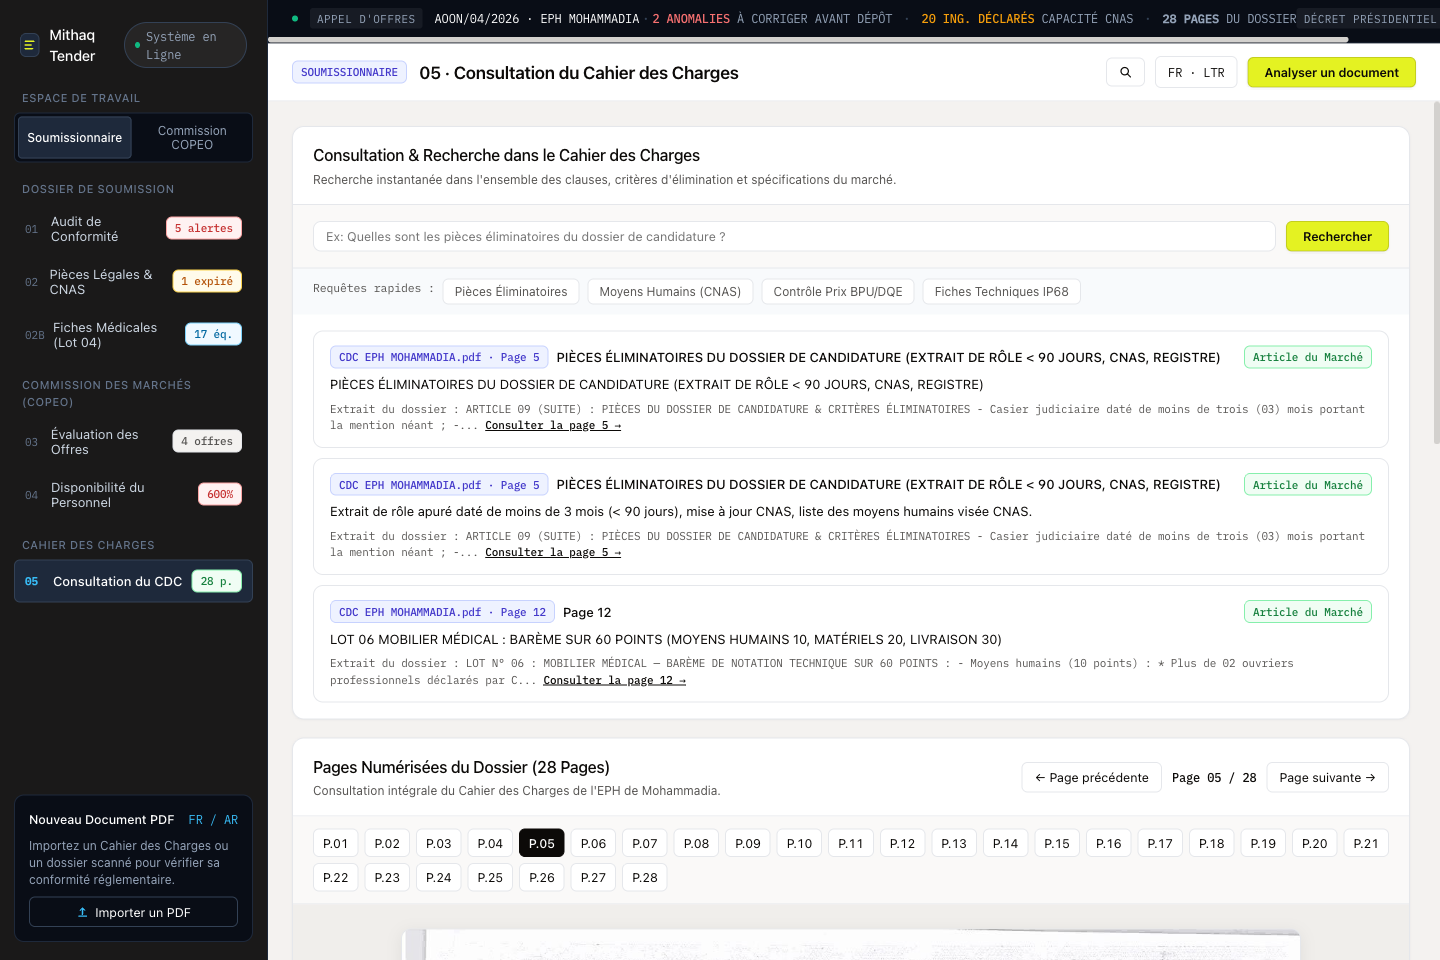
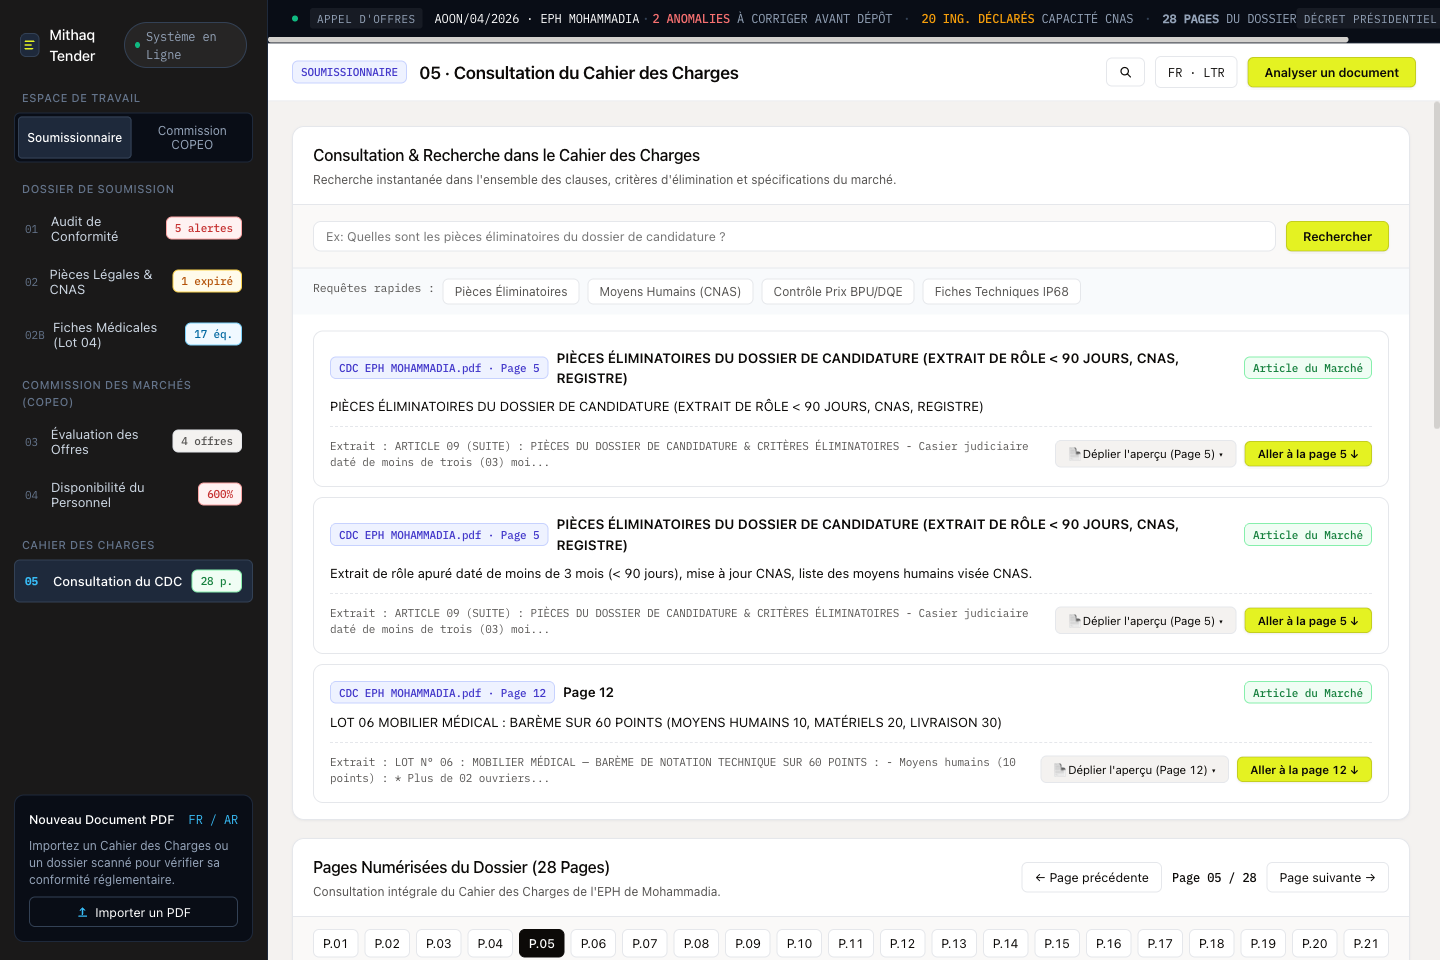
feat(ui): add inline card slide preview and smooth auto-scroll to tender viewer

diff --git a/index.html b/index.html
@@ -782,6 +782,35 @@
       box-shadow: var(--shadow-card);
     }
 
+    .eph-card-slide {
+      max-height: 0;
+      opacity: 0;
+      overflow: hidden;
+      transition: max-height 0.35s cubic-bezier(0.16, 1, 0.3, 1), opacity 0.25s ease;
+    }
+
+    .eph-card-slide.open {
+      max-height: 720px;
+      opacity: 1;
+    }
+
+    .flash-highlight {
+      animation: pulseHighlight 1.6s ease-out;
+    }
+
+    @keyframes pulseHighlight {
+      0% {
+        box-shadow: 0 0 0 3px var(--color-highlighter-yellow), 0 8px 24px rgba(228, 242, 34, 0.4);
+        border-color: var(--color-ink) !important;
+      }
+      50% {
+        box-shadow: 0 0 0 2px var(--color-highlighter-yellow), 0 4px 12px rgba(228, 242, 34, 0.2);
+      }
+      100% {
+        box-shadow: none;
+      }
+    }
+
     .panel-header {
       padding: 16px 20px;
       border-bottom: 1px solid var(--color-hairline);
@@ -1931,7 +1960,7 @@
             <div id="rag-results-container" style="padding: 16px 20px; display: flex; flex-direction: column; gap: 10px;"></div>
           </div>
 
-          <div class="panel-card">
+          <div class="panel-card" id="eph-scan-panel" style="scroll-margin-top: 80px;">
             <div class="panel-header">
               <div class="panel-title">
                 <h2>Pages Numérisées du Dossier (28 Pages)</h2>
@@ -2614,11 +2643,28 @@ Le Président de la Commission COPEO
             <div class="req-desc">${desc}</div>
             <div class="req-footer">
               <span class="mono">${item.docName} · ${item.page}</span>
-              <span class="mono" style="color: var(--color-ink); font-weight: 500;">Voir preuve PDF →</span>
+              <span class="mono" style="color: var(--color-ink); font-weight: 500; cursor: pointer; text-decoration: underline;" onclick="event.stopPropagation(); jumpToInspectorScan('${item.id}')">Voir preuve PDF →</span>
             </div>
           </div>
         `;
       }).join('');
+    }
+
+    function jumpToInspectorScan(reqId) {
+      selectRequirement(reqId);
+      setInspectorMode('SCAN');
+      if (window.innerWidth <= 1024) {
+        setMobileWorkbenchTab('preview');
+      } else {
+        const inspector = document.getElementById('col-pdf-inspector');
+        if (inspector) {
+          inspector.scrollIntoView({ behavior: 'smooth', block: 'nearest' });
+          inspector.classList.remove('flash-highlight');
+          void inspector.offsetWidth;
+          inspector.classList.add('flash-highlight');
+          setTimeout(() => inspector.classList.remove('flash-highlight'), 1800);
+        }
+      }
     }
 
     function setInspectorMode(mode) {
@@ -2934,26 +2980,101 @@ Le Président de la Commission COPEO
         }));
       }
 
-      container.innerHTML = results.map(r => `
-        <div style="background: var(--color-paper); border: 1px solid var(--color-hairline); border-radius: var(--radius-wash); padding: 14px 16px; cursor: pointer; transition: border-color 0.12s ease;" onclick="selectEphPage(${r.page_number})" onmouseover="this.style.borderColor='var(--color-ink)'" onmouseout="this.style.borderColor='var(--color-hairline)'">
-          <div style="display: flex; justify-content: space-between; align-items: center; margin-bottom: 6px;">
+      container.innerHTML = results.map((r, idx) => {
+        const pad = String(r.page_number).padStart(2, '0');
+        return `
+        <div class="rag-rule-card" id="rag-rule-${idx}" style="background: var(--color-paper); border: 1px solid var(--color-hairline); border-radius: var(--radius-wash); padding: 16px; cursor: pointer; transition: all 0.15s ease;" onclick="handleRagCardClick(event, ${idx}, ${r.page_number})" onmouseover="this.style.borderColor='var(--color-ink)'" onmouseout="if(!document.getElementById('eph-slide-${idx}')?.classList.contains('open')) this.style.borderColor='var(--color-hairline)'">
+          <div style="display: flex; justify-content: space-between; align-items: center; margin-bottom: 8px;">
             <div style="display: flex; align-items: center; gap: 8px;">
               <span class="badge badge-envelope mono">${r.doc_name} · Page ${r.page_number}</span>
-              <span style="color: var(--color-ink); font-size: 13px; font-weight: 500;">${r.section_title || 'Clause réglementaire'}</span>
+              <span style="color: var(--color-ink); font-size: 13.5px; font-weight: 600;">${r.section_title || 'Clause réglementaire'}</span>
             </div>
             <span class="badge badge-verified mono">Article du Marché</span>
           </div>
-          <div style="color: var(--color-ink); font-size: 13px; line-height: 1.5; margin-bottom: 6px;">
+          <div style="color: var(--color-ink); font-size: 13px; line-height: 1.55; margin-bottom: 8px;">
             ${r.child_content}
           </div>
-          <div class="mono" style="font-size: 11px; color: var(--color-ash);">
-            Extrait du dossier : ${r.parent_content.slice(0, 160)}... <span style="text-decoration: underline; color: var(--color-ink); font-weight: 500;">Consulter la page ${r.page_number} →</span>
+          <div style="display: flex; justify-content: space-between; align-items: center; margin-top: 10px; flex-wrap: wrap; gap: 10px; border-top: 1px dashed var(--color-hairline); padding-top: 10px;">
+            <div class="mono" style="font-size: 11px; color: var(--color-ash); flex: 1; min-width: 200px;">
+              Extrait : ${r.parent_content.slice(0, 130)}...
+            </div>
+            <div style="display: flex; gap: 8px; align-items: center;">
+              <button class="btn-ghost mono" id="slide-btn-${idx}" style="font-size: 11.5px; padding: 5px 12px; background: var(--color-bone);" onclick="event.stopPropagation(); toggleEphCardSlide(${idx}, ${r.page_number})">
+                <span id="slide-btn-text-${idx}">📄 Déplier l'aperçu (Page ${r.page_number}) ▾</span>
+              </button>
+              <button class="btn-acid-lime mono" style="font-size: 11.5px; padding: 5px 12px;" onclick="event.stopPropagation(); jumpToEphScanPage(${r.page_number})" title="Naviguer directement vers le visualiseur de documents">
+                Aller à la page ${r.page_number} ↓
+              </button>
+            </div>
+          </div>
+
+          <!-- POP-OUT CARD SLIDE UNDERNEATH THE RULE -->
+          <div class="eph-card-slide" id="eph-slide-${idx}">
+            <div style="margin-top: 14px; padding: 14px; background: #faf9f7; border: 1px solid var(--color-hairline); border-radius: var(--radius-buttons);">
+              <div style="display: flex; justify-content: space-between; align-items: center; margin-bottom: 10px; padding-bottom: 8px; border-bottom: 1px solid var(--color-hairline);">
+                <div style="display: flex; align-items: center; gap: 8px;">
+                  <span class="badge badge-neutral mono" style="font-weight: 600;">Page ${pad} / 28</span>
+                  <span style="font-size: 12px; font-weight: 500; color: var(--color-ink);">Scan Numérisé du Cahier des Charges</span>
+                </div>
+                <div style="display: flex; gap: 6px;">
+                  <button class="btn-acid-lime mono" style="font-size: 11px; padding: 3px 8px;" onclick="event.stopPropagation(); jumpToEphScanPage(${r.page_number})">
+                    Ouvrir dans le grand visualiseur ↓
+                  </button>
+                  <button class="btn-ghost mono" style="font-size: 11px; padding: 3px 8px;" onclick="event.stopPropagation(); toggleEphCardSlide(${idx}, ${r.page_number})">
+                    ✕ Réduire
+                  </button>
+                </div>
+              </div>
+              <div style="text-align: center; background: #e5e3df; border-radius: 6px; padding: 12px; border: 1px solid #dcdad5;">
+                <img src="src/extracted_pages/page_${pad}.jpg" alt="Scan Page ${r.page_number}" style="max-width: 100%; max-height: 520px; object-fit: contain; border-radius: 4px; box-shadow: 0 4px 16px rgba(0, 0, 0, 0.12); border: 1px solid rgba(0,0,0,0.1);" loading="lazy" />
+              </div>
+            </div>
           </div>
         </div>
-      `).join('');
+        `;
+      }).join('');
 
       if (results[0] && results[0].page_number) {
         selectEphPage(results[0].page_number);
+      }
+    }
+
+    function handleRagCardClick(event, idx, pageNumber) {
+      if (event.target.closest('button') || event.target.closest('a') || event.target.closest('input')) {
+        return;
+      }
+      toggleEphCardSlide(idx, pageNumber);
+    }
+
+    function toggleEphCardSlide(idx, pageNumber) {
+      const slide = document.getElementById(`eph-slide-${idx}`);
+      const btnText = document.getElementById(`slide-btn-text-${idx}`);
+      if (!slide) return;
+
+      const isOpen = slide.classList.contains('open');
+
+      if (isOpen) {
+        slide.classList.remove('open');
+        if (btnText) btnText.textContent = `📄 Déplier l'aperçu (Page ${pageNumber}) ▾`;
+      } else {
+        slide.classList.add('open');
+        if (btnText) btnText.textContent = `▲ Réduire l'aperçu (Page ${pageNumber})`;
+        selectEphPage(pageNumber);
+        setTimeout(() => {
+          slide.scrollIntoView({ behavior: 'smooth', block: 'nearest' });
+        }, 100);
+      }
+    }
+
+    function jumpToEphScanPage(pageNumber) {
+      selectEphPage(pageNumber);
+      const panel = document.getElementById('eph-scan-panel');
+      if (panel) {
+        panel.scrollIntoView({ behavior: 'smooth', block: 'start' });
+        panel.classList.remove('flash-highlight');
+        void panel.offsetWidth;
+        panel.classList.add('flash-highlight');
+        setTimeout(() => panel.classList.remove('flash-highlight'), 1800);
       }
     }
 

diff --git a/src/app.js b/src/app.js
@@ -549,11 +549,28 @@ const API_BASE = window.location.protocol.startsWith('http')
             <div class="req-desc">${desc}</div>
             <div class="req-footer">
               <span class="mono">${item.docName} · ${item.page}</span>
-              <span class="mono" style="color: var(--color-ink); font-weight: 500;">Voir preuve PDF →</span>
+              <span class="mono" style="color: var(--color-ink); font-weight: 500; cursor: pointer; text-decoration: underline;" onclick="event.stopPropagation(); jumpToInspectorScan('${item.id}')">Voir preuve PDF →</span>
             </div>
           </div>
         `;
       }).join('');
+    }
+
+    function jumpToInspectorScan(reqId) {
+      selectRequirement(reqId);
+      setInspectorMode('SCAN');
+      if (window.innerWidth <= 1024) {
+        setMobileWorkbenchTab('preview');
+      } else {
+        const inspector = document.getElementById('col-pdf-inspector');
+        if (inspector) {
+          inspector.scrollIntoView({ behavior: 'smooth', block: 'nearest' });
+          inspector.classList.remove('flash-highlight');
+          void inspector.offsetWidth;
+          inspector.classList.add('flash-highlight');
+          setTimeout(() => inspector.classList.remove('flash-highlight'), 1800);
+        }
+      }
     }
 
     function setInspectorMode(mode) {
@@ -869,26 +886,101 @@ const API_BASE = window.location.protocol.startsWith('http')
         }));
       }
 
-      container.innerHTML = results.map(r => `
-        <div style="background: var(--color-paper); border: 1px solid var(--color-hairline); border-radius: var(--radius-wash); padding: 14px 16px; cursor: pointer; transition: border-color 0.12s ease;" onclick="selectEphPage(${r.page_number})" onmouseover="this.style.borderColor='var(--color-ink)'" onmouseout="this.style.borderColor='var(--color-hairline)'">
-          <div style="display: flex; justify-content: space-between; align-items: center; margin-bottom: 6px;">
+      container.innerHTML = results.map((r, idx) => {
+        const pad = String(r.page_number).padStart(2, '0');
+        return `
+        <div class="rag-rule-card" id="rag-rule-${idx}" style="background: var(--color-paper); border: 1px solid var(--color-hairline); border-radius: var(--radius-wash); padding: 16px; cursor: pointer; transition: all 0.15s ease;" onclick="handleRagCardClick(event, ${idx}, ${r.page_number})" onmouseover="this.style.borderColor='var(--color-ink)'" onmouseout="if(!document.getElementById('eph-slide-${idx}')?.classList.contains('open')) this.style.borderColor='var(--color-hairline)'">
+          <div style="display: flex; justify-content: space-between; align-items: center; margin-bottom: 8px;">
             <div style="display: flex; align-items: center; gap: 8px;">
               <span class="badge badge-envelope mono">${r.doc_name} · Page ${r.page_number}</span>
-              <span style="color: var(--color-ink); font-size: 13px; font-weight: 500;">${r.section_title || 'Clause réglementaire'}</span>
+              <span style="color: var(--color-ink); font-size: 13.5px; font-weight: 600;">${r.section_title || 'Clause réglementaire'}</span>
             </div>
             <span class="badge badge-verified mono">Article du Marché</span>
           </div>
-          <div style="color: var(--color-ink); font-size: 13px; line-height: 1.5; margin-bottom: 6px;">
+          <div style="color: var(--color-ink); font-size: 13px; line-height: 1.55; margin-bottom: 8px;">
             ${r.child_content}
           </div>
-          <div class="mono" style="font-size: 11px; color: var(--color-ash);">
-            Extrait du dossier : ${r.parent_content.slice(0, 160)}... <span style="text-decoration: underline; color: var(--color-ink); font-weight: 500;">Consulter la page ${r.page_number} →</span>
+          <div style="display: flex; justify-content: space-between; align-items: center; margin-top: 10px; flex-wrap: wrap; gap: 10px; border-top: 1px dashed var(--color-hairline); padding-top: 10px;">
+            <div class="mono" style="font-size: 11px; color: var(--color-ash); flex: 1; min-width: 200px;">
+              Extrait : ${r.parent_content.slice(0, 130)}...
+            </div>
+            <div style="display: flex; gap: 8px; align-items: center;">
+              <button class="btn-ghost mono" id="slide-btn-${idx}" style="font-size: 11.5px; padding: 5px 12px; background: var(--color-bone);" onclick="event.stopPropagation(); toggleEphCardSlide(${idx}, ${r.page_number})">
+                <span id="slide-btn-text-${idx}">📄 Déplier l'aperçu (Page ${r.page_number}) ▾</span>
+              </button>
+              <button class="btn-acid-lime mono" style="font-size: 11.5px; padding: 5px 12px;" onclick="event.stopPropagation(); jumpToEphScanPage(${r.page_number})" title="Naviguer directement vers le visualiseur de documents">
+                Aller à la page ${r.page_number} ↓
+              </button>
+            </div>
+          </div>
+
+          <!-- POP-OUT CARD SLIDE UNDERNEATH THE RULE -->
+          <div class="eph-card-slide" id="eph-slide-${idx}">
+            <div style="margin-top: 14px; padding: 14px; background: #faf9f7; border: 1px solid var(--color-hairline); border-radius: var(--radius-buttons);">
+              <div style="display: flex; justify-content: space-between; align-items: center; margin-bottom: 10px; padding-bottom: 8px; border-bottom: 1px solid var(--color-hairline);">
+                <div style="display: flex; align-items: center; gap: 8px;">
+                  <span class="badge badge-neutral mono" style="font-weight: 600;">Page ${pad} / 28</span>
+                  <span style="font-size: 12px; font-weight: 500; color: var(--color-ink);">Scan Numérisé du Cahier des Charges</span>
+                </div>
+                <div style="display: flex; gap: 6px;">
+                  <button class="btn-acid-lime mono" style="font-size: 11px; padding: 3px 8px;" onclick="event.stopPropagation(); jumpToEphScanPage(${r.page_number})">
+                    Ouvrir dans le grand visualiseur ↓
+                  </button>
+                  <button class="btn-ghost mono" style="font-size: 11px; padding: 3px 8px;" onclick="event.stopPropagation(); toggleEphCardSlide(${idx}, ${r.page_number})">
+                    ✕ Réduire
+                  </button>
+                </div>
+              </div>
+              <div style="text-align: center; background: #e5e3df; border-radius: 6px; padding: 12px; border: 1px solid #dcdad5;">
+                <img src="src/extracted_pages/page_${pad}.jpg" alt="Scan Page ${r.page_number}" style="max-width: 100%; max-height: 520px; object-fit: contain; border-radius: 4px; box-shadow: 0 4px 16px rgba(0, 0, 0, 0.12); border: 1px solid rgba(0,0,0,0.1);" loading="lazy" />
+              </div>
+            </div>
           </div>
         </div>
-      `).join('');
+        `;
+      }).join('');
 
       if (results[0] && results[0].page_number) {
         selectEphPage(results[0].page_number);
+      }
+    }
+
+    function handleRagCardClick(event, idx, pageNumber) {
+      if (event.target.closest('button') || event.target.closest('a') || event.target.closest('input')) {
+        return;
+      }
+      toggleEphCardSlide(idx, pageNumber);
+    }
+
+    function toggleEphCardSlide(idx, pageNumber) {
+      const slide = document.getElementById(`eph-slide-${idx}`);
+      const btnText = document.getElementById(`slide-btn-text-${idx}`);
+      if (!slide) return;
+
+      const isOpen = slide.classList.contains('open');
+
+      if (isOpen) {
+        slide.classList.remove('open');
+        if (btnText) btnText.textContent = `📄 Déplier l'aperçu (Page ${pageNumber}) ▾`;
+      } else {
+        slide.classList.add('open');
+        if (btnText) btnText.textContent = `▲ Réduire l'aperçu (Page ${pageNumber})`;
+        selectEphPage(pageNumber);
+        setTimeout(() => {
+          slide.scrollIntoView({ behavior: 'smooth', block: 'nearest' });
+        }, 100);
+      }
+    }
+
+    function jumpToEphScanPage(pageNumber) {
+      selectEphPage(pageNumber);
+      const panel = document.getElementById('eph-scan-panel');
+      if (panel) {
+        panel.scrollIntoView({ behavior: 'smooth', block: 'start' });
+        panel.classList.remove('flash-highlight');
+        void panel.offsetWidth;
+        panel.classList.add('flash-highlight');
+        setTimeout(() => panel.classList.remove('flash-highlight'), 1800);
       }
     }
 
